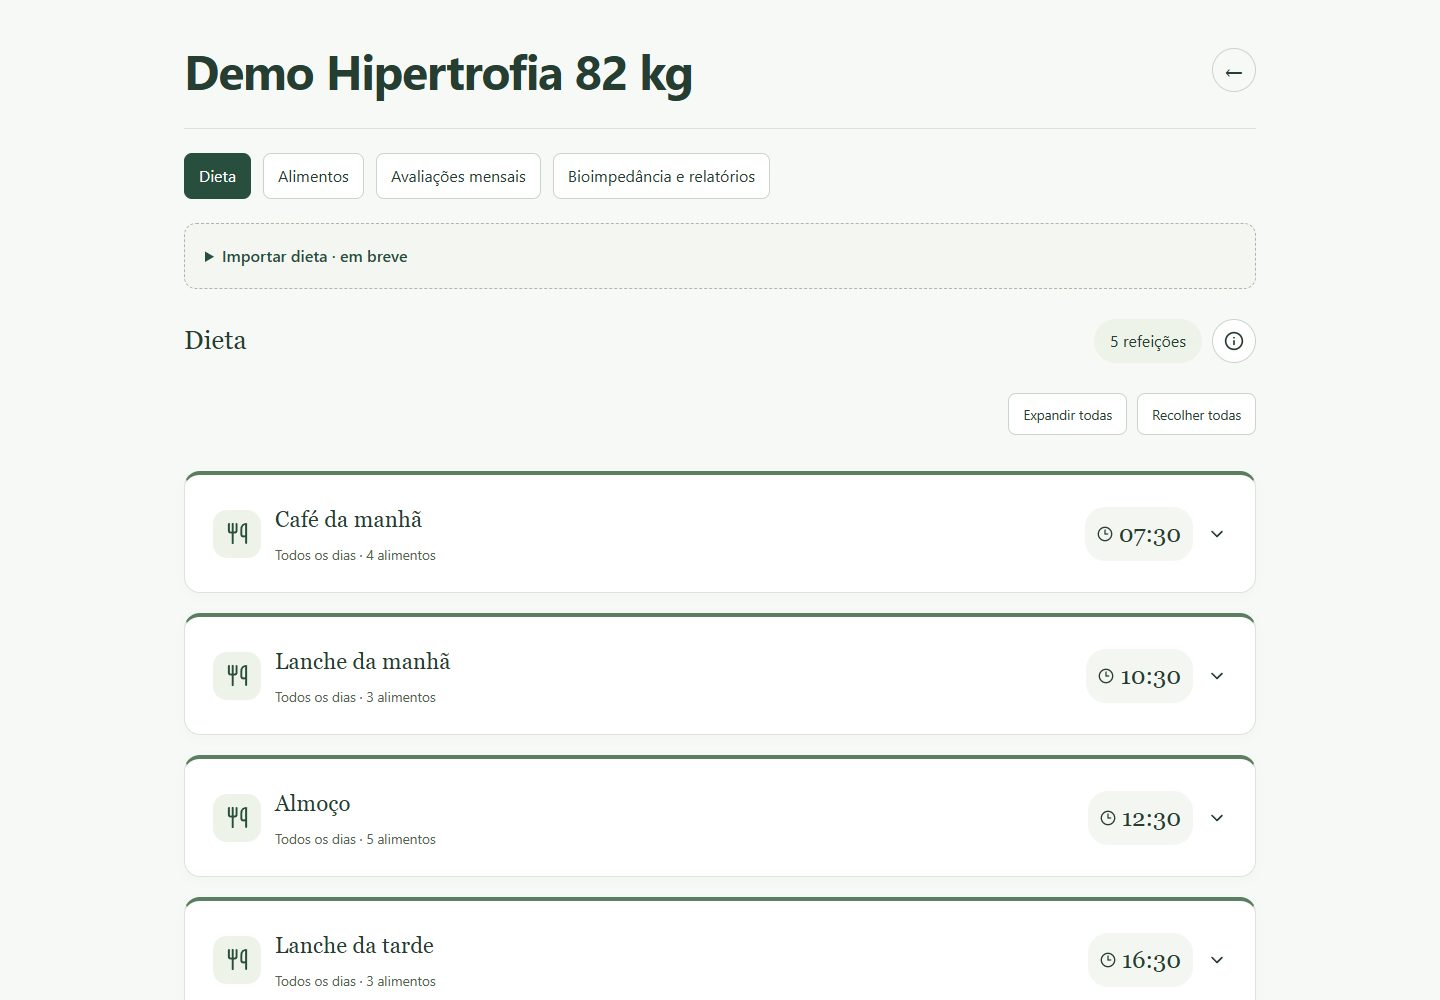
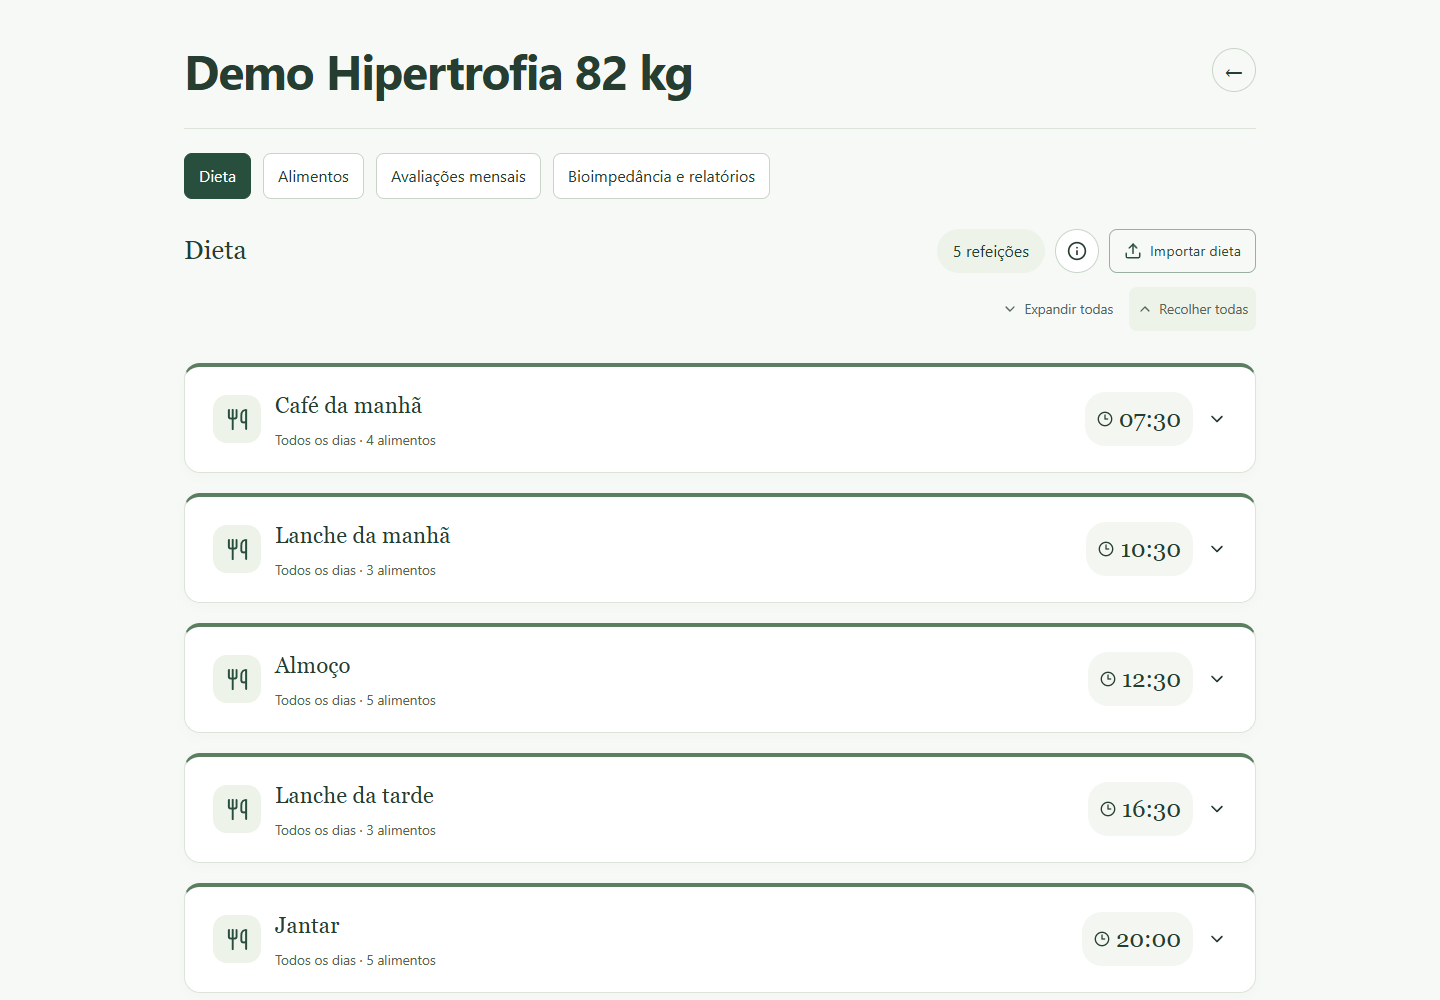
refactor(profissional): simplifica ferramentas do editor de dieta
Aplica o layout aprovado com importação em botão compacto, ações secundárias discretas e cartões menores. O modal informa que a importação por link ainda está em planejamento e não envia dados. Documenta escopo, validação e capturas reais. Validação: 25 testes, build, lint e Edge em 320/390/1440px.

diff --git a/frontend/src/features/plans/PlansPage.tsx b/frontend/src/features/plans/PlansPage.tsx
@@ -6,6 +6,8 @@ import {
   Plus,
   ChevronDown,
   Info,
+  Upload,
+  ChevronUp,
 } from "lucide-react";
 import { useQuery, useQueryClient } from "@tanstack/react-query";
 import { Link, Navigate, useSearchParams } from "react-router-dom";
@@ -255,6 +257,7 @@ function Editor({
   const client = useQueryClient();
   const [meals, setMeals] = useState<Meal[]>(initial.meals);
   const [history, setHistory] = useState(false);
+  const [importOpen, setImportOpen] = useState(false);
   const clean = JSON.stringify(meals) === JSON.stringify(initial.meals);
   const isActive =
     applyToday &&
@@ -358,8 +361,41 @@ function Editor({
               <Info size={20} aria-hidden="true" />
             </button>
           )}
+          {applyToday && (
+            <button
+              type="button"
+              className="plan-import-button"
+              onClick={() => setImportOpen(true)}
+            >
+              <Upload size={18} aria-hidden="true" /> Importar dieta
+            </button>
+          )}
         </div>
       </div>
+      {importOpen && (
+        <MealDialog title="Importar dieta" onClose={() => setImportOpen(false)}>
+          <p>
+            A importação por link está em planejamento. Nesta versão, monte ou
+            edite as refeições no painel.
+          </p>
+          <label>
+            Link da dieta
+            <input
+              type="url"
+              placeholder="https://…"
+              disabled
+              aria-describedby="diet-import-note"
+            />
+          </label>
+          <p id="diet-import-note" className="access-note">
+            Nenhum link é enviado ou armazenado. A dieta atual permanece
+            intacta.
+          </p>
+          <button type="button" onClick={() => setImportOpen(false)}>
+            Voltar à dieta
+          </button>
+        </MealDialog>
+      )}
       {history && (
         <MealDialog title="Versões da dieta" onClose={() => setHistory(false)}>
           <p>Deseja consultar outras versões da dieta deste cliente?</p>
@@ -428,10 +464,10 @@ function Editor({
             type="button"
             onClick={() => setOpened(meals.map((m) => m.id))}
           >
-            Expandir todas
+            <ChevronDown size={16} aria-hidden="true" /> Expandir todas
           </button>
           <button type="button" onClick={() => setOpened([])}>
-            Recolher todas
+            <ChevronUp size={16} aria-hidden="true" /> Recolher todas
           </button>
         </div>
       )}

diff --git a/frontend/src/features/plans/plans.css b/frontend/src/features/plans/plans.css
@@ -953,3 +953,59 @@
   cursor: pointer;
   padding: 8px 0;
 }
+/* Ferramentas secundárias compactas do editor profissional. */
+.plan-editor-intro {
+  margin: 20px 0 8px;
+}
+.plan-editor-tools {
+  flex-wrap: wrap;
+  justify-content: flex-end;
+}
+.plan-page button.plan-import-button {
+  display: inline-flex;
+  align-items: center;
+  gap: 8px;
+  padding: 10px 14px;
+  font-size: 0.9rem;
+  color: #284e3d;
+  background: transparent;
+  border-color: #9aafa0;
+}
+.plan-expand-actions {
+  gap: 8px;
+  margin: 0 0 12px;
+}
+.plan-page .plan-expand-actions button {
+  display: inline-flex;
+  align-items: center;
+  gap: 6px;
+  min-height: 44px;
+  padding: 6px 8px;
+  border: 0;
+  background: transparent;
+  color: #53655b;
+  font-size: 0.85rem;
+}
+.plan-page .plan-expand-actions button:hover {
+  background: #edf3e8;
+}
+.plan-meal-editor {
+  padding: 22px 28px;
+}
+@media (max-width: 700px) {
+  .plan-editor-tools {
+    gap: 8px;
+  }
+  .plan-meal-editor {
+    padding: 18px;
+  }
+}
+@media (max-width: 420px) {
+  .plan-editor-intro {
+    align-items: flex-start;
+  }
+  .plan-editor-tools {
+    flex: 1 1 100%;
+    justify-content: flex-start;
+  }
+}

diff --git a/frontend/src/features/care/CarePages.tsx b/frontend/src/features/care/CarePages.tsx
@@ -743,10 +743,6 @@ function ClientWorkspace({
       </div>
       {tab === "diet" ? (
         <>
-          <ImportPlaceholder
-            subject="dieta"
-            description="Espaço reservado para trazer uma dieta de outro sistema. Nesta versão, preencha as refeições e porções abaixo."
-          />
           <EditorLoader
             key={date}
             userId={id}

diff --git a/docs/DEVELOPMENT_LOG.md b/docs/DEVELOPMENT_LOG.md
@@ -205,3 +205,11 @@ Verificações desta etapa: login/logout HTTPS, Secure/HttpOnly, autorização e
 A tela do cliente apresenta as refeições logo após o título. Progresso e orientação de registro opcional passaram para um rodapé discreto; consulta de outra data permanece disponível em seção recolhida no final. Removido o link Recursos Premium do menu do cliente, mantendo as permissões e recursos existentes. Motivação: reduzir distrações na consulta diária e apresentar a funcionalidade principal com clareza.
 
 Validação: build TypeScript/Vite, lint e navegador Edge em 320, 390 e 1440px. Conferidos ausência de rolagem horizontal, menu sem Premium, posição do rodapé e seleção de outra data. Captura móvel atualizada com dados fictícios; ambiente de revisão iniciado apenas localmente em 8081.
+
+## 2026-10-27 — Layout aprovado do editor profissional
+
+Aplicado ao código o layout aprovado na prévia visual: removida a faixa de importação acima do editor, inserido botão compacto Importar dieta ao lado da contagem de refeições e do histórico, e convertidas as ações Expandir todas/Recolher todas em controles secundários com ícones. Reduzido o espaçamento dos cartões fechados para mostrar as cinco refeições da demonstração no desktop de 1440×1000; ferramentas reorganizam-se no celular sem rolagem lateral.
+
+O botão abre um modal acessível reutilizando MealDialog (Escape, retenção e retorno do foco). O campo Link da dieta fica desativado e o painel informa que a integração está em planejamento. Não há envio, busca remota, armazenamento de URL nem aplicação de dieta externa. Essa etapa implementa a apresentação e o acesso à informação; parsers, formatos e integração continuam fora da versão 1.0. As outras áreas de importação reservadas permanecem como estavam.
+
+Validação: 25 testes de frontend em 7 arquivos aprovados, build TypeScript/Vite e lint. Conferência em Edge com dados fictícios em 1440, 390 e 320px: abertura/fechamento do modal, Escape com retorno do foco, campo desativado, expandir/recolher e ausência de requisições de gravação ou rolagem horizontal. Capturas reais do editor substituem a prévia na documentação e na pasta local de imagens para LinkedIn.

diff --git a/docs/DEMO_GUIDE.md b/docs/DEMO_GUIDE.md
@@ -64,3 +64,7 @@ O fluxo principal mudou para nutricionista → convite/aceite → catálogo/diet
 `npm run demo:care` prepara as duas contas de exemplo. `demo:hypertrophy` é um alias para o mesmo roteiro. A conta fictícia anterior e seus saldos são preservados; é explicitamente colocada no Básico, com estoque congelado. Credenciais do profissional ficam em .local/demo-professional.json. Use perfis de navegador separados para testar simultaneamente.
 
 Os recursos Premium podem ser simulados somente na demonstração local; não há cobrança. Ao ativar controle, confirme os saldos preservados. Não são descontadas refeições anteriores. A publicação pública continua pendente da configuração externa.
+
+### Botão Importar dieta no editor profissional
+
+No acompanhamento do cliente, a aba Dieta reúne contagem de refeições, histórico e o botão Importar dieta. O botão abre um painel informativo com campo de link desativado: a importação ainda está em planejamento. Não ocorre leitura de links ou alteração de dados. Feche por Escape, pelo botão de fechar ou por Voltar à dieta. Expandir todas e Recolher todas permanecem disponíveis como controles secundários; cada cartão também pode ser aberto individualmente.
